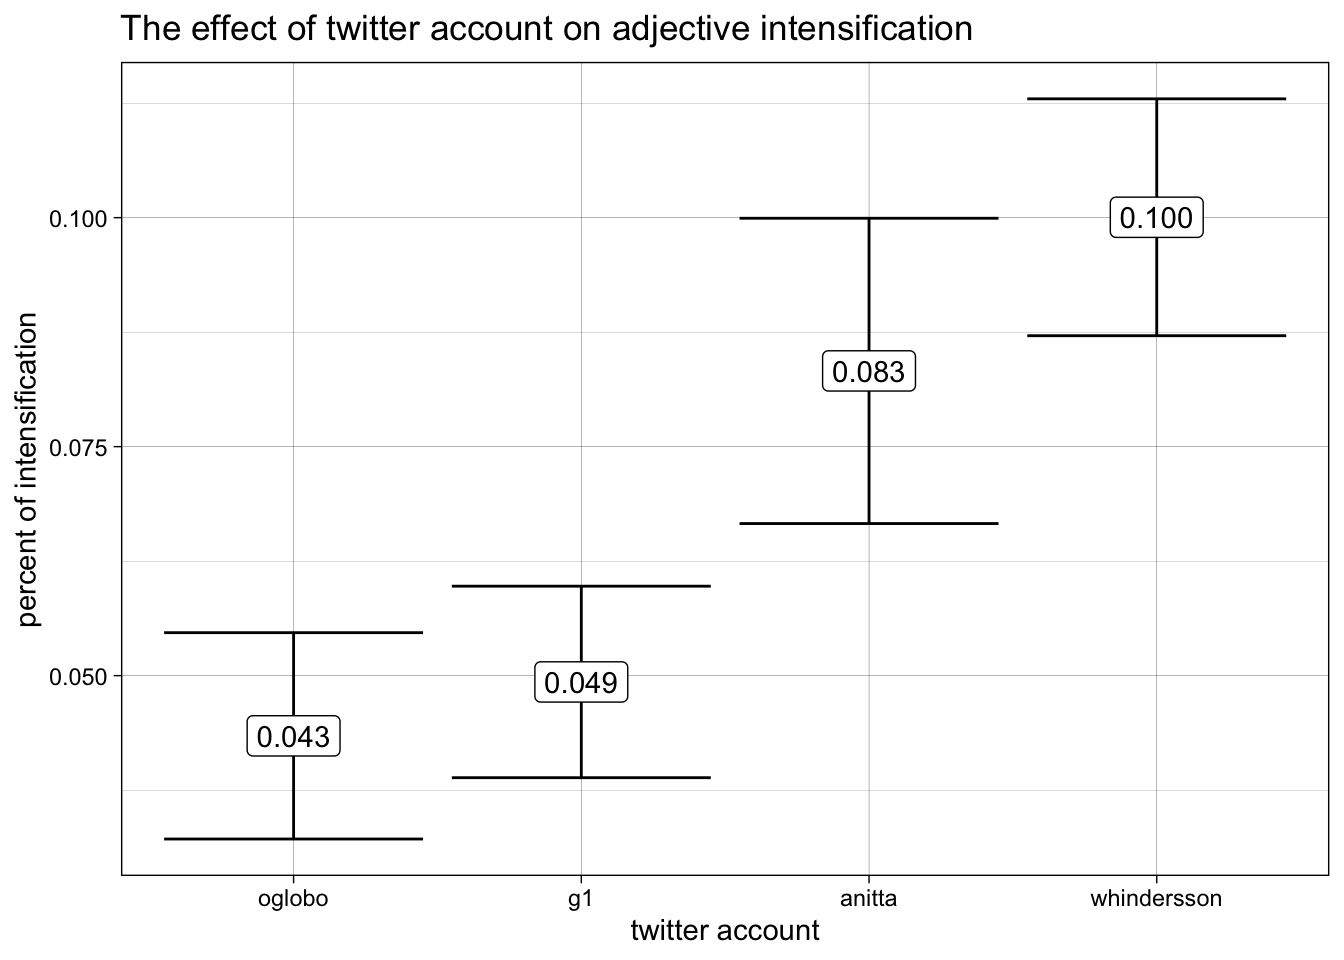
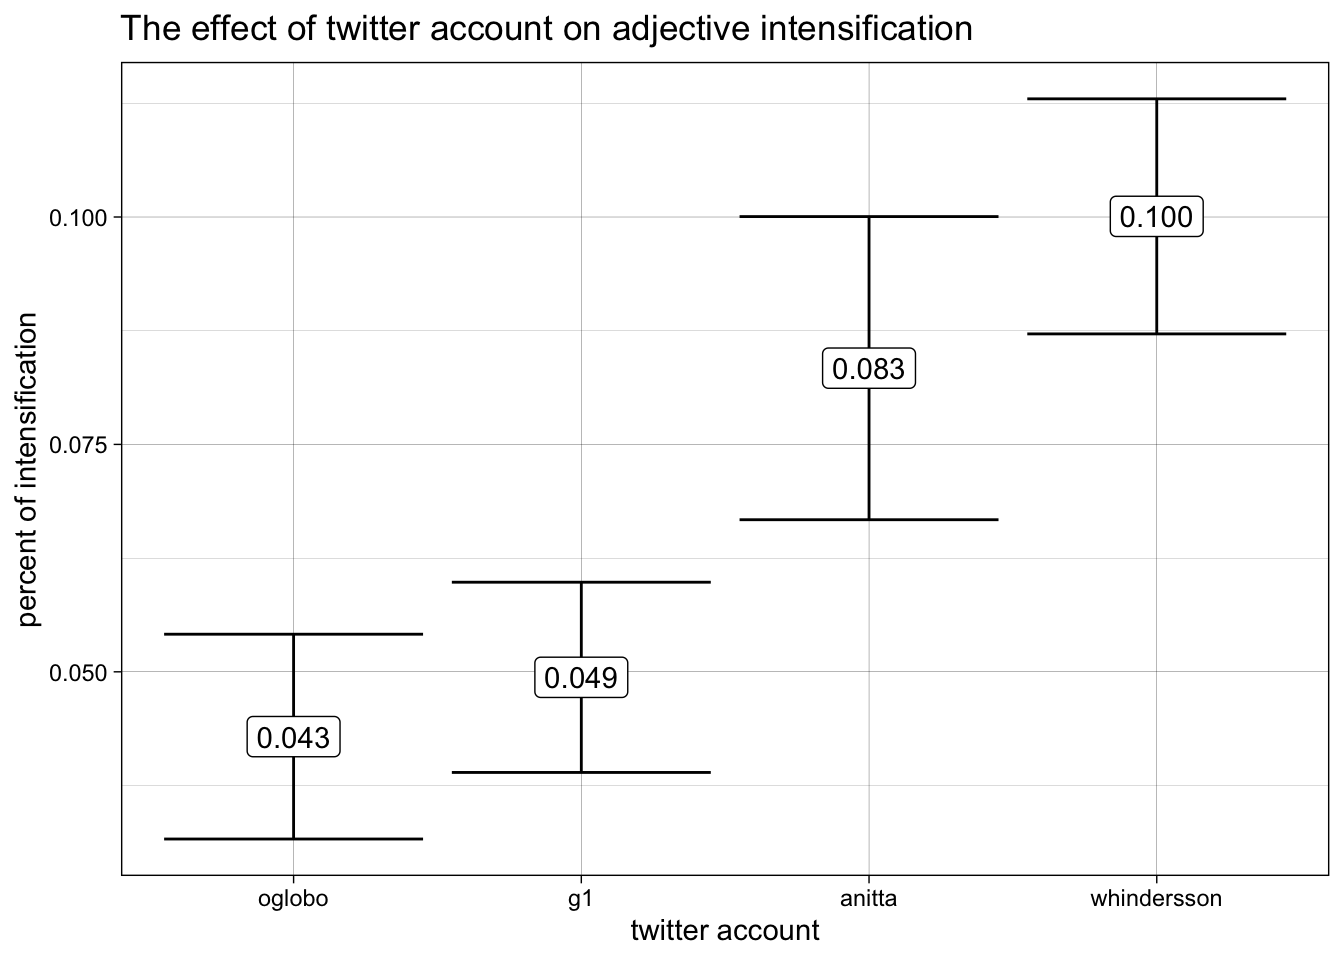
added super token example

diff --git a/index.html b/index.html
@@ -7,7 +7,7 @@
 <meta name="viewport" content="width=device-width, initial-scale=1.0, user-scalable=yes">
 
 <meta name="author" content="Adriana Picoral (adrianaps@arizona.edu)">
-<meta name="dcterms.date" content="2022-04-16">
+<meta name="dcterms.date" content="2022-04-19">
 
 <title>Analyzing intensifying constructions found in tweets in R: frequencies, collocations, and variation across groups</title>
 <style>
@@ -127,7 +127,7 @@ code span.wa { color: #60a0b0; font-weight: bold; font-style: italic; } /* Warni
     <div>
     <div class="quarto-title-meta-heading">Published</div>
     <div class="quarto-title-meta-contents">
-      <p class="date">16 April 2022</p>
+      <p class="date">19 April 2022</p>
     </div>
   </div>
     
@@ -140,6 +140,11 @@ code span.wa { color: #60a0b0; font-weight: bold; font-style: italic; } /* Warni
 <h1>Tweet Data</h1>
 <p>We will be working with processed tweet data in this minicurso. The last 3,200 tweets from four Brazilian Twitter accounts were retrieved using the package <code>rtweet</code>. The tweets were then automatically labeled for part of speech using <code>spacyr</code> – for more information using <a href="https://spacy.io/models/pt">the available Portuguese pipelines</a> which are based on a converted version of the Bosque, which is part of the Floresta Sintá(c)tica treebank. All adjectives that allow for an intensifier were extracted from these tweets automatically, with some post-processing to eliminate false positives. That is to say that there’s noise in the data since these tokens were not coded by humans. This data is used to the purpose of this demonstration, not as valid findings regarding the use of intensifiers in Portuguese.</p>
 <p>For the purposes of this demonstration, intensifiers include the following adverbs: bastante, bem, demais, mais, menos, muito, pouco, quanto, quão, quase, tanto, tão.</p>
+<p>Here’s a super token:</p>
+<blockquote class="blockquote">
+<p>Mas prometo que o próximo (que já é <strong>certo</strong>, já tenho o show pra gravar) eu quero no Teatro Amazonas, e quero mostrar ele como ele é, <strong>bem lindo</strong> e entupido!</p>
+</blockquote>
+<p>The tagger did not identify <code>entupido</code> as an adjective. The token <code>próximo</code> was tagged as adjective, but eliminated from the data since it cannot be modified by an intensifier.</p>
 <p>For an example of an actual research paper on intensification in Portuguese, refer to <a href="https://www.jstor.org/stable/pdf/27026451.pdf?casa_token=V5N6CxcMls8AAAAA:CLCeFbPYORxgMbnAh3dSy_N7pyaIdV9fr6qwGcrlAwXY-QdhWSo2azy0YCB2-TKwJ26jr8Q4OaJH5S4zBlZY8RwKihJg-lvQ7I8sbNt3DHZpeLPTEL8">Lívio and Hower (2020)</a>.</p>
 </section>
 <section id="data-exploration" class="level1">
@@ -154,7 +159,7 @@ code span.wa { color: #60a0b0; font-weight: bold; font-style: italic; } /* Warni
 <div class="sourceCode cell-code" id="cb2"><pre class="sourceCode r code-with-copy"><code class="sourceCode r"><span id="cb2-1"><a href="#cb2-1" aria-hidden="true" tabindex="-1"></a><span class="co"># read data in</span></span>
 <span id="cb2-2"><a href="#cb2-2" aria-hidden="true" tabindex="-1"></a>intense_data <span class="ot">&lt;-</span> <span class="fu">read_tsv</span>(<span class="st">"data/intensifiers_tweets.tsv"</span>)</span></code><button title="Copy to Clipboard" class="code-copy-button"><i class="bi"></i></button></pre></div>
 <div class="cell-output cell-output-stderr">
-<pre><code>Rows: 6104 Columns: 15
+<pre><code>Rows: 6098 Columns: 15
 ── Column specification ────────────────────────────────────────────────────────
 Delimiter: "\t"
 chr (11): doc_id, token, lemma, pos, tag, gender, number, dep_rel, intensifi...
@@ -166,7 +171,7 @@ dbl  (4): sentence_id, token_id, head_token_id, intensifier
 <div class="sourceCode cell-code" id="cb4"><pre class="sourceCode r code-with-copy"><code class="sourceCode r"><span id="cb4-1"><a href="#cb4-1" aria-hidden="true" tabindex="-1"></a><span class="co"># inspect data</span></span>
 <span id="cb4-2"><a href="#cb4-2" aria-hidden="true" tabindex="-1"></a><span class="fu">glimpse</span>(intense_data)</span></code><button title="Copy to Clipboard" class="code-copy-button"><i class="bi"></i></button></pre></div>
 <div class="cell-output cell-output-stdout">
-<pre><code>Rows: 6,104
+<pre><code>Rows: 6,098
 Columns: 15
 $ doc_id            &lt;chr&gt; "text838", "text2537", "text1708", "text1914", "text…
 $ sentence_id       &lt;dbl&gt; 4, 2, 2, 1, 3, 1, 1, 3, 1, 1, 1, 1, 2, 1, 2, 1, 6, 1…
@@ -200,9 +205,9 @@ $ account           &lt;chr&gt; "anitta", "whindersson", "anitta", "oglobo", "an
 <pre><code># A tibble: 4 × 4
   account     percent_intensified tokens intensifiers
   &lt;chr&gt;       &lt;chr&gt;                &lt;int&gt;        &lt;dbl&gt;
-1 oglobo      0.042                 1791           76
-2 g1          0.048                 2100          101
-3 anitta      0.083                  818           68
+1 oglobo      0.042                 1790           75
+2 g1          0.048                 2096          101
+3 anitta      0.083                  817           68
 4 whindersson 0.103                 1395          144</code></pre>
 </div>
 </div>
@@ -311,23 +316,23 @@ lm(formula = intensifier ~ account + gender + number, data = intense_data)
 
 Residuals:
      Min       1Q   Median       3Q      Max 
--0.14525 -0.08333 -0.05950 -0.03260  0.97328 
+-0.14524 -0.08346 -0.05948 -0.03278  0.97374 
 
 Coefficients:
                     Estimate Std. Error t value Pr(&gt;|t|)    
-(Intercept)         0.073874   0.011334   6.518 7.69e-11 ***
-accountg1          -0.033958   0.010061  -3.375 0.000742 ***
-accountoglobo      -0.039843   0.010271  -3.879 0.000106 ***
-accountwhindersson  0.016773   0.010725   1.564 0.117905    
-genderMasc          0.026901   0.006353   4.234 2.33e-05 ***
-genderUnsp          0.061920   0.092039   0.673 0.501126    
-numberSing         -0.007314   0.007821  -0.935 0.349714    
+(Intercept)         0.074216   0.011329   6.551 6.18e-11 ***
+accountg1          -0.033989   0.010060  -3.379 0.000733 ***
+accountoglobo      -0.040507   0.010268  -3.945 8.07e-05 ***
+accountwhindersson  0.016687   0.010721   1.556 0.119660    
+genderMasc          0.026704   0.006351   4.205 2.65e-05 ***
+genderUnsp          0.061786   0.091967   0.672 0.501722    
+numberSing         -0.007447   0.007816  -0.953 0.340691    
 ---
 Signif. codes:  0 '***' 0.001 '**' 0.01 '*' 0.05 '.' 0.1 ' ' 1
 
-Residual standard error: 0.2428 on 6097 degrees of freedom
-Multiple R-squared:  0.01349,   Adjusted R-squared:  0.01252 
-F-statistic:  13.9 on 6 and 6097 DF,  p-value: 9.272e-16</code></pre>
+Residual standard error: 0.2426 on 6091 degrees of freedom
+Multiple R-squared:  0.01358,   Adjusted R-squared:  0.01261 
+F-statistic: 13.98 on 6 and 6091 DF,  p-value: 7.302e-16</code></pre>
 </div>
 </div>
 <p>The best way to visualize results in by plotting the effects of different predictors (a.k.a. factor groups) on intensification. We will use the <code>effects</code> library for this.</p>
@@ -396,25 +401,25 @@ glm(formula = intensifier ~ account + gender + number, family = "binomial",
 
 Deviance Residuals: 
     Min       1Q   Median       3Q      Max  
--0.5617  -0.3889  -0.3423  -0.2692   2.6327  
+-0.5616  -0.3893  -0.3415  -0.2697   2.6371  
 
 Coefficients:
                    Estimate Std. Error z value Pr(&gt;|z|)    
-(Intercept)         -2.5863     0.1851 -13.972  &lt; 2e-16 ***
-accountg1           -0.5709     0.1641  -3.479 0.000503 ***
-accountoglobo       -0.7055     0.1734  -4.068 4.73e-05 ***
-accountwhindersson   0.1847     0.1551   1.191 0.233846    
-genderMasc           0.4913     0.1152   4.264 2.00e-05 ***
-genderUnsp           0.7769     1.0870   0.715 0.474764    
-numberSing          -0.1421     0.1354  -1.050 0.293801    
+(Intercept)         -2.5805     0.1851 -13.942  &lt; 2e-16 ***
+accountg1           -0.5706     0.1641  -3.477 0.000507 ***
+accountoglobo       -0.7206     0.1739  -4.143 3.42e-05 ***
+accountwhindersson   0.1835     0.1551   1.183 0.236827    
+genderMasc           0.4884     0.1153   4.236 2.28e-05 ***
+genderUnsp           0.7748     1.0870   0.713 0.475958    
+numberSing          -0.1448     0.1355  -1.069 0.285182    
 ---
 Signif. codes:  0 '***' 0.001 '**' 0.01 '*' 0.05 '.' 0.1 ' ' 1
 
 (Dispersion parameter for binomial family taken to be 1)
 
-    Null deviance: 2894.6  on 6103  degrees of freedom
-Residual deviance: 2814.4  on 6097  degrees of freedom
-AIC: 2828.4
+    Null deviance: 2888.4  on 6097  degrees of freedom
+Residual deviance: 2807.7  on 6091  degrees of freedom
+AIC: 2821.7
 
 Number of Fisher Scoring iterations: 6</code></pre>
 </div>
